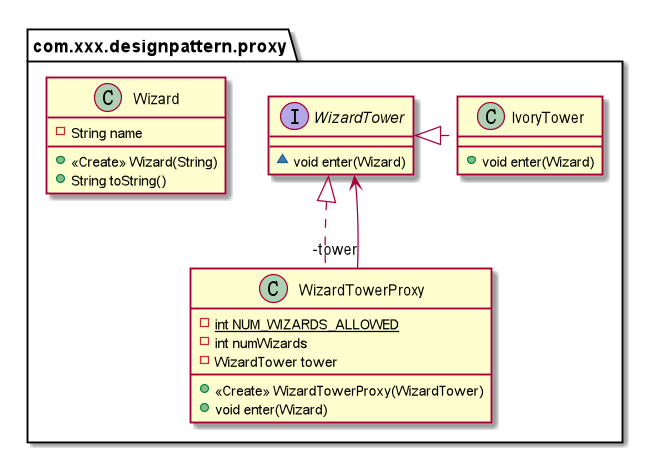
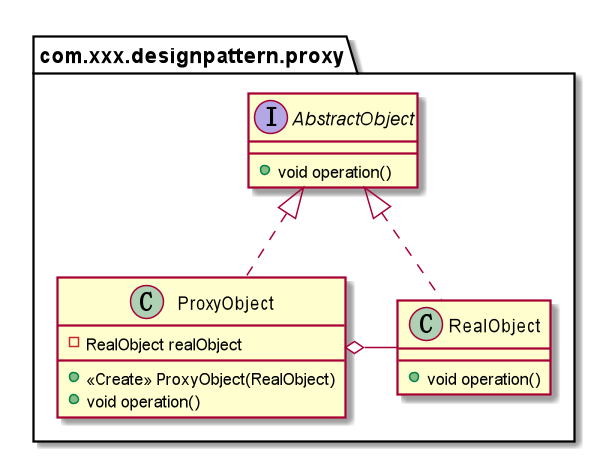
1

diff --git a/source/_posts/2023/10/组合模式.md b/source/_posts/2023/10/组合模式.md
@@ -1,0 +1,151 @@
+---
+title: 组合模式
+date: 2023-10-17 21:35:06
+categories:
+  - [设计模式, 组合模式]
+tags:
+  - design patterns
+  - gof
+  - structural
+  - composite
+---
+
+## 组合模式
+
+### 意图
+
+将对象组合成树结构以表示部分整体层次结构。 组合可以使客户统一对待单个对象和组合对象。
+
+### 适用场景
+
+- 需要表示一个对象整体与部分的层次结构时，可以使用组合模式来实现树形结构。例如：文件系统中的文件与文件夹。
+- 需要忽略组合对象和单个对象之间的差异，客户将统一对待组合结构中的所有对象。例如：菜单系统中的菜单项与子菜单。
+- 需要将对象的创建和使用分离时，可以使用组合模式来实现依赖注入。例如：`Spring`框架中的 Bean 对象。
+- ......
+
+<!-- more -->
+
+### 经典案例
+
+- [java.awt.Container](http://docs.oracle.com/javase/8/docs/api/java/awt/Container.html) / [java.awt.Component](http://docs.oracle.com/javase/8/docs/api/java/awt/Component.html)
+
+### 代码示例
+
+```java
+/**
+ * 每个句子由单词组成，单词又由字符组成。这些对象中的每一个都是可打印的，它们可以在它们之前或之后打印一些内容，
+ * 例如句子始终以句号结尾，单词始终在其前面有空格。
+ */
+public abstract class LetterComposite {
+
+    private final List<LetterComposite> children = new ArrayList<>();
+
+    public void add(LetterComposite letter) {
+        children.add(letter);
+    }
+
+    public int count() {
+        return children.size();
+    }
+
+    protected void printThisBefore() {
+    }
+
+    protected void printThisAfter() {
+    }
+
+    public void print() {
+        printThisBefore();
+        children.forEach(LetterComposite::print);
+        printThisAfter();
+    }
+}
+
+public class Letter extends LetterComposite {
+
+    private final char character;
+
+    public Letter(char c) {
+        this.character = c;
+    }
+
+    @Override
+    protected void printThisBefore() {
+        System.out.print(character);
+    }
+}
+
+public class Word extends LetterComposite {
+
+    public Word(List<Letter> letters) {
+        letters.forEach(this::add);
+    }
+
+    public Word(char... letters) {
+        for (char letter : letters) {
+            this.add(new Letter(letter));
+        }
+    }
+
+    @Override
+    protected void printThisBefore() {
+        System.out.print(" ");
+    }
+}
+
+public class Sentence extends LetterComposite {
+
+    public Sentence(List<Word> words) {
+        words.forEach(this::add);
+    }
+
+    @Override
+    protected void printThisAfter() {
+        System.out.print(".\r\n");
+    }
+}
+
+public class Messenger {
+
+    LetterComposite messageFromOrcs() {
+        List<Word> words = List.of(
+                new Word('W', 'h', 'e', 'r', 'e'),
+                new Word('t', 'h', 'e', 'r', 'e'),
+                new Word('i', 's'),
+                new Word('a'),
+                new Word('w', 'h', 'i', 'p'),
+                new Word('t', 'h', 'e', 'r', 'e'),
+                new Word('i', 's'),
+                new Word('a'),
+                new Word('w', 'a', 'y')
+        );
+        return new Sentence(words);
+    }
+
+    LetterComposite messageFromElves() {
+        List<Word> words = List.of(
+                new Word('M', 'u', 'c', 'h'),
+                new Word('w', 'i', 'n', 'd'),
+                new Word('p', 'o', 'u', 'r', 's'),
+                new Word('f', 'r', 'o', 'm'),
+                new Word('y', 'o', 'u', 'r'),
+                new Word('m', 'o', 'u', 't', 'h')
+        );
+        return new Sentence(words);
+    }
+}
+```
+
+> [示例代码]()
+
+### 类图
+
+{% asset_img composite_demo.png %}
+
+{% asset_img composite.png %}
+
+类图中主要包含以下角色：
+
+抽象构件角色（`Component`）：它可以是接口或抽象类，为叶子构件和容器构件对象声明接口，在该角色中可以包含所有子类共有行为的声明和实现。在抽象构件中定义了访问及管理它的子构件的方法，如增加子构件、删除子构件、获取子构件等。
+叶子构件角色（`Leaf`）：它在组合结构中表示叶子节点对象，叶子节点没有子节点，它实现了在抽象构件中定义的行为。对于那些访问及管理子构件的方法，可以通过抛出异常等方式进行处理。
+容器构件角色（`Composite`）：它在组合结构中表示容器节点对象，容器节点包含子节点，其子节点可以是叶子节点，也可以是容器节点，它提供一个集合用于存储子节点，实现了在抽象构件中定义的行为，包括那些访问及管理子构件的方法，在其业务方法中可以递归调用其子节点的业务方法。

diff --git a/source/_posts/2023/10/原型模式.md b/source/_posts/2023/10/原型模式.md
@@ -1,0 +1,91 @@
+---
+title: 原型模式
+date: 2023-10-17 20:55:06
+categories:
+  - [设计模式, 原型模式]
+tags:
+  - design patterns
+  - gof
+  - creational
+  - prototype
+---
+
+## 原型模式
+
+### 意图
+
+通过复制现有的实例来创建新的实例，无需知道相应类的信息。
+
+### 适用场景
+
+- 某些结构复杂的对象的创建工作，由于需求的变化，这些对象经常面临着剧烈的变化，但是他们却拥有比较稳定一致的接口。
+- 细胞分裂
+- 物种克隆
+- ......
+
+<!-- more -->
+
+### 经典案例
+
+- [java.lang.Object#clone()](https://docs.oracle.com/javase/8/docs/api/java/lang/Object.html#clone--)
+- [Apache commons-beanutils BeanUtils#cloneBean(Object)](https://commons.apache.org/proper/commons-beanutils/javadocs/v1.9.4/apidocs/org/apache/commons/beanutils/BeanUtils.html#cloneBean-java.lang.Object-)
+- [Spring ConfigurableBeanFactory#SCOPE_PROTOTYPE](https://docs.spring.io/spring-framework/docs/5.3.29/javadoc-api/org/springframework/beans/factory/config/ConfigurableBeanFactory.html#SCOPE_PROTOTYPE)
+
+### 代码示例
+
+```java
+/**
+ * 百宝箱包含一组魔法物品。有多种物品，例如戒指，药水和武器。可以使用藏宝箱提供的迭代器按类型浏览物品。
+ */
+@Data
+public class ShippingAddress implements Cloneable {
+
+    private String receiver;
+    private String phone;
+    private Address address;
+
+    @Override
+    protected ShippingAddress clone() throws CloneNotSupportedException {
+        // 浅拷贝
+        // return (ShippingAddress) super.clone();
+
+        // 深拷贝
+        ShippingAddress res = (ShippingAddress) super.clone();
+        res.address = res.address.clone(); // 非基本数据类型属性也需拷贝
+        return res;
+    }
+
+    @Data
+    public static class Address implements Cloneable {
+
+        private String country;
+        private String province;
+        private String city;
+        private String detail;
+
+        @Override
+        protected Address clone() throws CloneNotSupportedException {
+            return (Address) super.clone();
+        }
+    }
+}
+```
+
+> [示例代码]()
+
+#### 浅拷贝
+
+创建一个新对象，新对象的属性和原来对象完全相同，对于非基本数据类型属性，仍指向原有属性所指向对象的内存地址。
+
+#### 深拷贝
+
+创建一个新对象，属性中引用的其他对象也会被克隆，不再指向原有对象地址。
+
+### 类图
+
+{% asset_img prototype.png %}
+
+类图中主要包含以下角色：
+
+抽象原型角色（`Prototype`）：声明克隆方法的接口，来说明它有被克隆功能。
+具体原型角色（`ConcretePrototype`）：实现在抽象原型中声明的克隆方法，在克隆方法中返回自己的一个克隆对象。

diff --git a/source/_posts/2023/09/代理模式.md b/source/_posts/2023/09/代理模式.md
@@ -184,10 +184,12 @@ public class Client {
 
 ### 类图
 
+{% asset_img proxy_demo.png %}
+
 {% asset_img proxy.png %}
 
 类图中主要包含三个核心角色：
 
-抽象对象角色（WizardTower）：声明了目标对象和代理对象的共同接口，这样依赖在任何可以使用目标对象的地方都可以使用代理对象。
-目标对象角色（IvoryTower）：定义了代理对象所代表的目标对象。
-代理对象角色（WizardTowerProxy）：代理对象内部含有目标对象的引用，从而可以在任何时候操作目标对象；代理对象提供一个与目标对象相同的接口，以便可以在任何时候替代目标对象。代理对象通常在客户端调用传递给目标对象之前或者之后执行某个操作，而不是单纯的将调用传递给目标对象。
+抽象对象角色（`AbstractObject`）：声明了目标对象和代理对象的共同接口，这样依赖在任何可以使用目标对象的地方都可以使用代理对象。
+目标对象角色（`RealObject`）：定义了代理对象所代表的目标对象。
+代理对象角色（`ProxyObject`）：代理对象内部含有目标对象的引用，从而可以在任何时候操作目标对象；代理对象提供一个与目标对象相同的接口，以便可以在任何时候替代目标对象。代理对象通常在客户端调用传递给目标对象之前或者之后执行某个操作，而不是单纯的将调用传递给目标对象。

diff --git a/source/_posts/2023/09/享元模式.md b/source/_posts/2023/09/享元模式.md
@@ -83,7 +83,7 @@ private static class IntegerCache {
 
 类图中主要包含四个核心角色：
 
-- 抽象的享元角色（FlyWeight）：它是产品的抽象类，同时定义出对象的内部状态（不会随着环境的改变而改变的可共享部分）和外部状态（随环境改变而改变的不可以共享的部分）。
-- 具体的享元角色（ConcreteFlyWeight）：是具体的产品类，实现抽象角色定义的相关业务。
-- 不可共享角色（UnsharedConcreteFlyWeight）：不能被共享的子类可设计成不可共享角色。
-- 享元工厂类（FlyweightFactory）：负责创建和管理享元角色，当使用者创建享元对象时，会由享元工厂先从工厂中获取，若存在则对外提供，不存在则由工厂创建。
+- 抽象的享元角色（`FlyWeight`）：它是产品的抽象类，同时定义出对象的内部状态（不会随着环境的改变而改变的可共享部分）和外部状态（随环境改变而改变的不可以共享的部分）。
+- 具体的享元角色（`ConcreteFlyWeight`）：是具体的产品类，实现抽象角色定义的相关业务。
+- 不可共享角色（`UnsharedConcreteFlyWeight`）：不能被共享的子类可设计成不可共享角色。
+- 享元工厂类（`FlyweightFactory`）：负责创建和管理享元角色，当使用者创建享元对象时，会由享元工厂先从工厂中获取，若存在则对外提供，不存在则由工厂创建。

diff --git a/source/_posts/2023/10/观察者模式.md b/source/_posts/2023/10/观察者模式.md
@@ -122,7 +122,7 @@ public class Weather {
 
 类图中主要包含以下角色：
 
-抽象主题角色（Subject）：提供一个用于保存观察者对象的容器，可以增加、删除观察者以及通知所有观察者的方法。
-具体主题角色（ConcreteSubject）：负责定义它自己的业务逻辑，并在主题内部状态改变时，通知它的所有观察者对象。
-抽象观察者角色（Observer）：它是一个抽象类或接口，包含一个响应方法用来在订阅主题发生更改时做出对应反应。
-具体观察者角色（ConcreteObserver）：实现抽象观察者中定义的抽象响应方法，以便在订阅主题发生更改时及时做出自己对应的反应。
+抽象主题角色（`Subject`）：提供一个用于保存观察者对象的容器，可以增加、删除观察者以及通知所有观察者的方法。
+具体主题角色（`ConcreteSubject`）：负责定义它自己的业务逻辑，并在主题内部状态改变时，通知它的所有观察者对象。
+抽象观察者角色（`Observer`）：它是一个抽象类或接口，包含一个响应方法用来在订阅主题发生更改时做出对应反应。
+具体观察者角色（`ConcreteObserver`）：实现抽象观察者中定义的抽象响应方法，以便在订阅主题发生更改时及时做出自己对应的反应。

diff --git a/source/_posts/2023/10/装饰器模式.md b/source/_posts/2023/10/装饰器模式.md
@@ -104,7 +104,7 @@ public class ClubbedTroll implements Troll {
 
 装饰器模式主要包含以下角色：
 
-抽象构件角色（Component）：定义一个抽象接口以规范准备接收附加职责的对象。
-具体构件角色（ConcreteComponent）：实现抽象构件，将要通过装饰角色为其添加一些职责。
-抽象装饰角色（Decorator）：继承抽象构件，并包含具体构件的实例，可以通过其子类扩展具体构件的功能。
-具体装饰角色（ConcreteDecorator）：实现抽象装饰的相关方法，并给具体构件对象添加附加的职责。
+抽象构件角色（`Component`）：定义一个抽象接口以规范准备接收附加职责的对象。
+具体构件角色（`ConcreteComponent`）：实现抽象构件，将要通过装饰角色为其添加一些职责。
+抽象装饰角色（`Decorator`）：继承抽象构件，并包含具体构件的实例，可以通过其子类扩展具体构件的功能。
+具体装饰角色（`ConcreteDecorator`）：实现抽象装饰的相关方法，并给具体构件对象添加附加的职责。

diff --git a/source/_posts/2023/10/状态模式.md b/source/_posts/2023/10/状态模式.md
@@ -265,6 +265,6 @@ public class GumballMachine extends State {
 
 类图中主要包含三个核心角色：
 
-上下文角色（Context）：定义客户端需要的接口，维护一个当前状态，并将与状态相关的操作委托给当前状态对象来处理。
-抽象状态角色（State）：定义一个接口，用以封装上下文对象中的特定状态所对应的行为。
-具体状态角色（ConcreteState）：实现抽象状态所对应的行为，并且在需要的情况下进行状态切换。
+上下文角色（`Context`）：定义客户端需要的接口，维护一个当前状态，并将与状态相关的操作委托给当前状态对象来处理。
+抽象状态角色（`State`）：定义一个接口，用以封装上下文对象中的特定状态所对应的行为。
+具体状态角色（`ConcreteState`）：实现抽象状态所对应的行为，并且在需要的情况下进行状态切换。

diff --git a/source/_posts/2023/09/策略模式.md b/source/_posts/2023/09/策略模式.md
@@ -88,10 +88,12 @@ public class DragonSlayer {
 
 ### 类图
 
+{% asset_img strategy_demo.png %}
+
 {% asset_img strategy.png %}
 
 类图中主要包含三个核心角色：
 
-抽象策略角色（DragonSlayingStrategy）：规定策略或算法的行为。
-具体策略角色（MeleeStrategy/ProjectileStrategy/SpellStrategy）：具体的策略或算法实现。
-上下文角色（DragonSlayer）：用来操作策略的上下文，屏蔽高层模块(客户端)对策略、算法的直接访问，封装可能存在的变化。
+抽象策略角色（`Strategy`）：规定策略或算法的行为。
+具体策略角色（`ConcreteStrategy`）：具体的策略或算法实现。
+上下文角色（`Context`）：用来操作策略的上下文，屏蔽高层模块(客户端)对策略、算法的直接访问，封装可能存在的变化。

diff --git a/source/_posts/2023/09/设计模式.md b/source/_posts/2023/09/设计模式.md
@@ -33,6 +33,7 @@ tags:
 - 工厂方法：创建单个产品实例。
 - 抽象工厂：创建一族产品实例。
 - 建造者：允许创建不同口味的对象以避免构造器污染。
+- 原型：通过复制现有的实例来创建新的实例，无需知道相应类的信息。
 - 抽象文档：为对象添加类型安全的动态属性。
 - 享元：用共享技术来有效地支持大量细粒度对象的复用。
 - 代理：代理某个对象的行为和方法，添加自定义功能。
